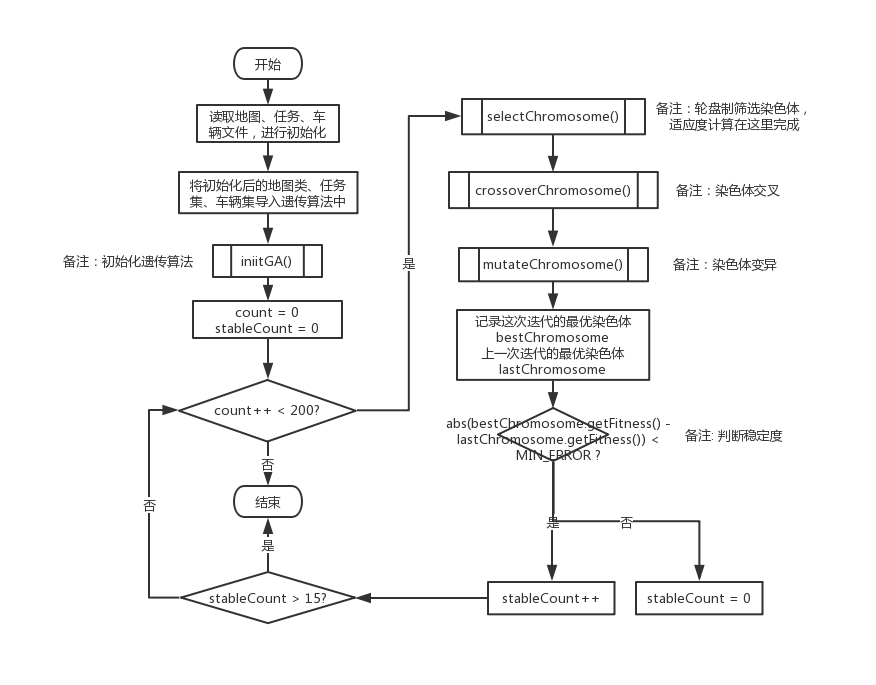
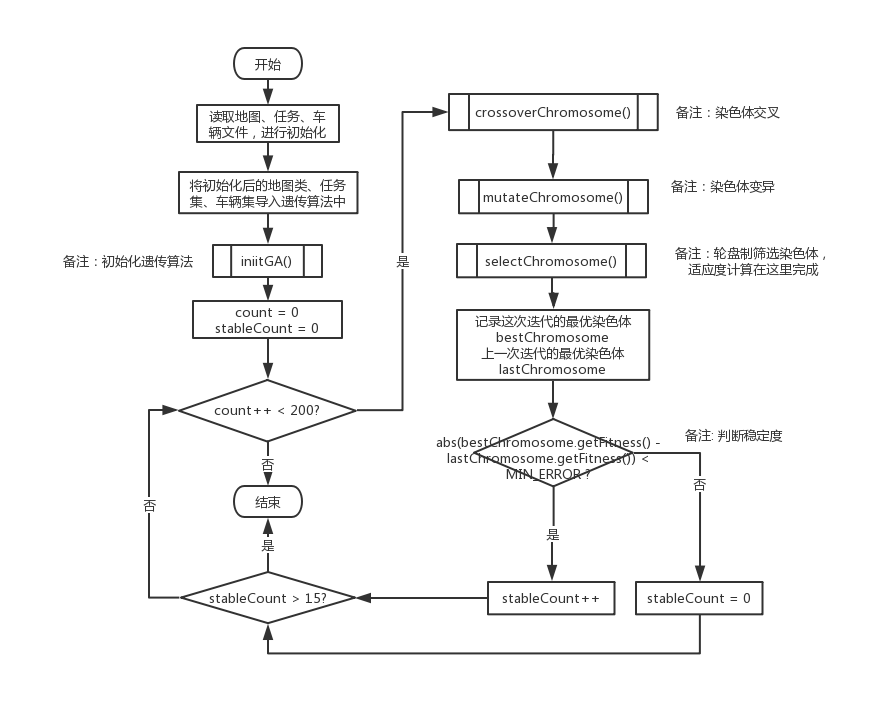
勉强算完成的版本，但内存容易不够

Changed region(s): [[0.0616, 0.0613, 0.9247, 0.9197]]

diff --git a/timewindowtable.cpp b/timewindowtable.cpp
@@ -51,11 +51,11 @@ float TimeWindowTable::addPathInfo(int carIndex, const vector<int>& pathInfo, Gr
                     int beforeS = A.getBeforeS(s, edgeToS);
 
                     //删除这辆车在edgeToS路径上对应的时间窗
+                    TimeWindow findTw = _carAxis[carIndex].back();
                     _carAxis[carIndex].pop_back();
                     TimeWindowsByEdge::iterator edgeAxisIter = _edgeAxis[edgeToS].begin();
                     while(++edgeAxisIter != _edgeAxis[edgeToS].end()) {
-                        if(tw.getCarID() == edgeAxisIter->getCarID() &&
-                                tw.getEnterTime() == edgeAxisIter->getExitTime()) {
+                        if(findTw == *edgeAxisIter) {
                             _edgeAxis[edgeToS].erase(edgeAxisIter);
                             break;
                         }
@@ -87,18 +87,26 @@ TimeWindowsByEdge::iterator TimeWindowTable::isCollision(int edgeIndex, const Ti
 }
 
 void TimeWindowTable::clear() {
-    for(int i = 0; i < _carAxis.size(); i++) {
-        auto iter = _carAxis[i].begin();
-        ++iter;
-        while(iter != _carAxis[i].end())
-            iter = _carAxis[i].erase(iter);
-    }
-    for(int i = 0; i < _edgeAxis.size(); i++) {
-        auto iter = _edgeAxis[i].begin();
-        ++iter;
-        while(iter != _edgeAxis[i].end())
-            iter = _edgeAxis[i].erase(iter);
-    }
+    int carNum = _carAxis.size();
+    int edgeNum = _edgeAxis.size();
+    vector<TimeWindowsByCar>().swap(_carAxis);
+    vector<TimeWindowsByEdge>().swap(_edgeAxis);
+    for(int i = 0; i < carNum; i++)
+        _carAxis.push_back(TimeWindowsByCar(TimeWindow(0.0, 0.0, i+1, 0)));
+    for(int i = 0; i < edgeNum+1; i++)
+        _edgeAxis.push_back(TimeWindowsByEdge(TimeWindow(0.0, 0.0, 0, i+1)));
+//    for(int i = 0; i < _carAxis.size(); i++) {
+//        auto iter = _carAxis[i].begin();
+//        ++iter;
+//        while(iter != _carAxis[i].end())
+//            iter = _carAxis[i].erase(iter);
+//    }
+//    for(int i = 0; i < _edgeAxis.size(); i++) {
+//        auto iter = _edgeAxis[i].begin();
+//        ++iter;
+//        while(iter != _edgeAxis[i].end())
+//            iter = _edgeAxis[i].erase(iter);
+//    }
 }
 
 void TimeWindowTable::clearFromIndex() {

diff --git a/geneticalgorithm.cpp b/geneticalgorithm.cpp
@@ -15,7 +15,7 @@ void GeneticAlgorithm::run() {
     clock_t startTime, endTime;
     startTime = clock();
     initGA();
-    cout << "finish init" << endl;
+    //cout << "finish init" << endl;
     int stableTimes = 0;
     float lastFitness = 0.0;
     for(int count = 0; count < 200; count++) {
@@ -23,7 +23,6 @@ void GeneticAlgorithm::run() {
         srand(time(0));
         // 选择 交叉 变异 一条龙服务
         //cout << "1---" << count << endl;
-        selectChromosome();
         //cout << "2---" << count << endl;
         initializeCrossoverProbability();
         crossoverChromosome();
@@ -31,6 +30,7 @@ void GeneticAlgorithm::run() {
         initializeMutateProbability();
         mutateChromosome();
         //cout << "4---" << count << endl << endl;
+        selectChromosome();
         //_bestChromosome.printTable();
         //cout << setprecision(20) << _bestChromosome.getFitness() << endl;
         //cout << "-----------------------------" << endl;

diff --git a/main.cpp b/main.cpp
@@ -10,7 +10,7 @@ int main(int argc, char *argv[]) {
     MainWindow w(nullptr);
     Graph G("C:\\Users\\10761\\Documents\\AGV_System\\map\\\\vers\\vers-1.txt",
             "C:\\Users\\10761\\Documents\\AGV_System\\map\\matrix\\matrix-1.txt");
-    TaskSet tSet("C:\\Users\\10761\\Documents\\AGV_System\\map\\tasks\\tasks-1.txt");
+    TaskSet tSet("C:\\Users\\10761\\Documents\\AGV_System\\map\\tasks\\tasks-2.txt");
     CarSet cSet("C:\\Users\\10761\\Documents\\AGV_System\\map\\cars\\cars-1.txt");
     GeneticAlgorithm GA(cSet, tSet, G);
     GA.run();

diff --git a/mainwindow.cpp b/mainwindow.cpp
@@ -68,7 +68,7 @@ void MainWindow::paintEvent(QPaintEvent*) {
     // 画地图
     painter.setPen(QPen(Qt::white, 2));
     int offsetOfX = 350;
-    int offsetOfY = 50;
+    int offsetOfY = 0;
     for(int i = 0; i < mapModel.getEdgeNum(); i++) {
         int point1 = mapModel.getEdgeStart(i+1);
         int point2 = mapModel.getEdgeEnd(i+1);

diff --git a/geneticalgorithm.h b/geneticalgorithm.h
@@ -3,7 +3,6 @@
 
 #include <vector>
 #include <iomanip>
-#include <memory>
 #include "car.h"
 #include "task.h"
 #include "graph.h"
